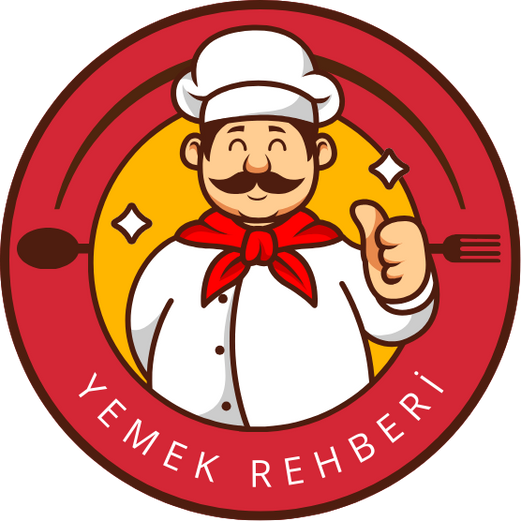
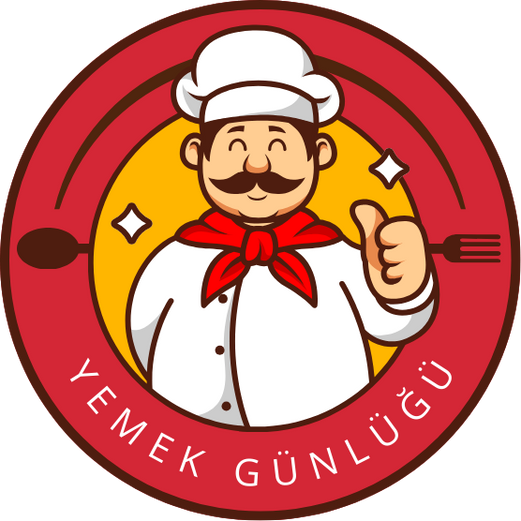
Sayfa Düzenlemeleri

Changed region(s): [[0.1228, 0.6756, 0.7678, 0.952], [0.7985, 0.6756, 0.8906, 0.7678], [0.7678, 0.737, 0.8292, 0.7985]]

diff --git a/src/components/Register/Register.jsx b/src/components/Register/Register.jsx
@@ -64,44 +64,62 @@ const Register = () => {
   }, [registrationSuccess, navigate]);
 
   return (
-    <div className="register-page">
-      <div className="register-container">
-        <h2>Kayıt Ol</h2>
-        <form onSubmit={MailSignUp}>
+    <div className="register-container">
+    <div className="register-form">
+      <h2>Kayıt Ol</h2>
+      <form onSubmit={MailSignUp}>
+        <div className="input-group">
+          <label htmlFor="firstName">Ad</label>
           <input
             type="text"
-            placeholder="Adınız"
+            id="firstName"
+            placeholder="Adınızı girin"
             value={firstName}
             onChange={(e) => setFirstName(e.target.value)}
             required
           />
+        </div>
+        <div className="input-group">
+          <label htmlFor="lastName">Soyad</label>
           <input
             type="text"
-            placeholder="Soyadınız"
+            id="lastName"
+            placeholder="Soyadınızı girin"
             value={lastName}
             onChange={(e) => setLastName(e.target.value)}
             required
           />
+        </div>
+        <div className="input-group">
+          <label htmlFor="email">E-posta Adresi</label>
           <input
             type="email"
-            placeholder="Email"
+            id="email"
+            placeholder="E-posta adresinizi girin"
             value={email}
             onChange={(e) => setEmail(e.target.value)}
             required
           />
+        </div>
+        <div className="input-group">
+          <label htmlFor="password">Şifre</label>
           <input
             type="password"
-            placeholder="Şifre"
+            id="password"
+            placeholder="Şifrenizi girin"
             value={password}
             onChange={(e) => setPassword(e.target.value)}
             required
           />
-          <button type="submit">Kayıt Ol</button>
-        </form>
+        </div>
+        <button type="submit" className="register-button">
+          Kayıt Ol
+        </button>
         {error && <p className="error-message">{error}</p>}
         {successMessage && <p className="success-message">{successMessage}</p>}
-      </div>
+      </form>
     </div>
+  </div>
   );
 };
 

diff --git a/src/components/Register/Register.scss b/src/components/Register/Register.scss
@@ -1,50 +1,80 @@
-.register-page {
+$primary-color: #3498db;
+$background-color: #f2f2f2;
+$form-background: #ffffff;
+$input-border-color: #dddddd;
+$button-background: $primary-color;
+$button-hover-background: darken($primary-color, 10%);
+
+.register-container {
   display: flex;
   justify-content: center;
   align-items: center;
   height: 100vh;
-  // background-color: #f4f4f4;
 }
 
-.register-container {
-  background: #fff;
-  padding: 20px;
+.register-form {
+  background-color: $form-background;
+  padding: 2rem;
   border-radius: 8px;
-  box-shadow: 0 0 10px rgba(0, 0, 0, 0.1);
+  box-shadow: 0 2px 10px rgba(0, 0, 0, 0.1);
   width: 100%;
   max-width: 400px;
-}
 
-.register-container h2 {
-  margin-bottom: 20px;
-}
+  h2 {
+    margin-bottom: 1.5rem;
+    color: $primary-color;
+    text-align: center;
+  }
 
-.register-container input {
-  width: 100%;
-  padding: 10px;
-  margin-bottom: 10px;
-  border: 1px solid #ddd;
-  border-radius: 4px;
-}
+  .input-group {
+    margin-bottom: 1.5rem;
 
-.register-container button {
-  width: 100%;
-  padding: 10px;
-  background-color: #007bff;
-  color: #fff;
-  border: none;
-  border-radius: 4px;
-  cursor: pointer;
-}
+    label {
+      display: block;
+      margin-bottom: 0.5rem;
+      color: #555555;
+    }
 
-.register-container button:hover {
-  background-color: #0056b3;
-}
+    input {
+      width: 100%;
+      padding: 0.75rem;
+      border-radius: 4px;
+      border: 1px solid $input-border-color;
+      font-size: 1rem;
+      transition: border-color 0.3s;
 
-.error-message {
-  color: #d9534f;
-}
+      &:focus {
+        border-color: $primary-color;
+        outline: none;
+      }
+    }
+  }
 
-.success-message {
-  color: #5bc0de;
+  .register-button {
+    width: 100%;
+    padding: 0.75rem;
+    background-color: $button-background;
+    color: #ffffff;
+    border: none;
+    border-radius: 4px;
+    font-size: 1rem;
+    cursor: pointer;
+    transition: background-color 0.3s;
+
+    &:hover {
+      background-color: $button-hover-background;
+    }
+  }
+
+  .error-message {
+    color: #d9534f;
+    text-align: center;
+    margin-bottom: 1rem;
+  }
+
+  .success-message {
+    color: #5bc0de;
+    text-align: center;
+    margin-bottom: 1rem;
+  }
 }

diff --git a/src/dist.css/Register.css b/src/dist.css/Register.css
@@ -1,1 +1,1 @@
-.register-page{display:flex;justify-content:center;align-items:center;height:100vh}.register-container{background:#fff;padding:20px;border-radius:8px;box-shadow:0 0 10px rgba(0,0,0,0.1);width:100%;max-width:400px}.register-container h2{margin-bottom:20px}.register-container input{width:100%;padding:10px;margin-bottom:10px;border:1px solid #ddd;border-radius:4px}.register-container button{width:100%;padding:10px;background-color:#007bff;color:#fff;border:none;border-radius:4px;cursor:pointer}.register-container button:hover{background-color:#0056b3}.error-message{color:#d9534f}.success-message{color:#5bc0de}
+.register-container{display:flex;justify-content:center;align-items:center;height:100vh}.register-form{background-color:#fff;padding:2rem;border-radius:8px;box-shadow:0 2px 10px rgba(0,0,0,0.1);width:100%;max-width:400px}.register-form h2{margin-bottom:1.5rem;color:#3498db;text-align:center}.register-form .input-group{margin-bottom:1.5rem}.register-form .input-group label{display:block;margin-bottom:0.5rem;color:#555555}.register-form .input-group input{width:100%;padding:0.75rem;border-radius:4px;border:1px solid #ddd;font-size:1rem;transition:border-color 0.3s}.register-form .input-group input:focus{border-color:#3498db;outline:none}.register-form .register-button{width:100%;padding:0.75rem;background-color:#3498db;color:#ffffff;border:none;border-radius:4px;font-size:1rem;cursor:pointer;transition:background-color 0.3s}.register-form .register-button:hover{background-color:#217dbb}.register-form .error-message{color:#d9534f;text-align:center;margin-bottom:1rem}.register-form .success-message{color:#5bc0de;text-align:center;margin-bottom:1rem}

diff --git a/src/components/Hompage/Homepage.jsx b/src/components/Hompage/Homepage.jsx
@@ -29,7 +29,7 @@ const Homepage = () => {
                         animate={{opacity: 1, x: 0}}
                         transition={{ duration: 1, delay: 0.6, type: 'spring' }}
                     >
-                        Yemek Rehberi ile yemek tarifi aramak artık çok kolay! İyi bir akşam yemeğinden sonra insan herkesi, hatta kendi akrabalarını bile affedebilir.
+                        Yemek Günlüğü ile yemek tarifi aramak artık çok kolay! İyi bir akşam yemeğinden sonra insan herkesi, hatta kendi akrabalarını bile affedebilir.
                     </motion.p>
 
                     <motion.div
@@ -104,7 +104,7 @@ const Homepage = () => {
                 <div className="about__section">
                     <div className="about__left">
                         <h1>Hakkımızda</h1>
-                        <p>Yemek Rehberi, yemek tarifi aramanıza ve sizin için en iyi yemek tarifini bulmanıza olanak tanıyan bir yemek tarifi web sitesidir. Bir yemek tarifini ara, kategoriye veya malzemeye göre arayabilirsiniz. Ayrıca rastgele bir yemek tarifi de arayabilirsiniz. Burada sizin için en iyi yemek tariflerinden birini bulabilirsiniz.</p>
+                        <p>Yemek Günlüğü, yemek tarifi aramanıza ve sizin için en iyi yemek tarifini bulmanıza olanak tanıyan bir yemek tarifi web sitesidir. Bir yemek tarifini ara, kategoriye veya malzemeye göre arayabilirsiniz. Ayrıca rastgele bir yemek tarifi de arayabilirsiniz. Burada sizin için en iyi yemek tariflerinden birini bulabilirsiniz.</p>
                     </div>
                     <div className="img__container">
                         <img src={About} alt="about"/>

diff --git a/src/components/PrivacyPolicy/PrivacyPolicy.jsx b/src/components/PrivacyPolicy/PrivacyPolicy.jsx
@@ -1,6 +1,7 @@
 import React from 'react';
 import { motion } from 'framer-motion';
 import "../../dist.css/PrivacyPolicy.css";
+import { Link } from "react-router-dom";
 
 const PrivacyPolicy = () => {
   const headingDelays = [0.3, 0.6, 0.9, 1.2, 1.5, 1.8, 2.1];
@@ -103,7 +104,12 @@ const PrivacyPolicy = () => {
         8. İletişim
       </motion.h2>
       <p>
-        Gizlilik politikamızla ilgili herhangi bir sorunuz varsa, bizimle iletişime geçebilirsiniz. İletişim bilgileri için [İletişim sayfamızı](#) ziyaret edebilirsiniz.
+        Gizlilik politikamızla ilgili herhangi bir sorunuz varsa, bizimle iletişime geçebilirsiniz. İletişim bilgileri için   <Link to="/contact"
+        style={{
+          color:"orange"
+        }}>
+                    İletişim
+                  </Link> sayfamızı ziyaret edebilirsiniz.
       </p>
     </motion.div>
   );

diff --git a/src/components/About/About.jsx b/src/components/About/About.jsx
@@ -19,7 +19,7 @@ const About = () => {
         <div className="about__left">
           <h1>Hakkımızda</h1>
           <p>
-            Yemek Rehberi, yemek tarifi aramanıza ve sizin için en iyi yemek
+            Yemek Günlüğü, yemek tarifi aramanıza ve sizin için en iyi yemek
             tarifini bulmanıza olanak tanıyan bir yemek tarifi web sitesidir.
             Bir yemek tarifini ara, kategoriye veya malzemeye göre
             arayabilirsiniz. Ayrıca rastgele bir yemek tarifi de

diff --git a/src/components/Navbar/Navbar.jsx b/src/components/Navbar/Navbar.jsx
@@ -53,7 +53,7 @@ const Navbar = () => {
     <div className="navbar">
       <Link to="/" className="nav__brand">
         <img src={Logo} alt="Logo" />
-        <h2 id="idfood">Yemek</h2><h2 className="logo__last">Rehberi</h2>
+        <h2 id="idfood">Yemek</h2><h2 className="logo__last">Günlüğü</h2>
       </Link>
 
       <ul className={navActive}>

diff --git a/public/index.html b/public/index.html
@@ -13,7 +13,7 @@
 
     <link rel="apple-touch-icon" href="%PUBLIC_URL%/logo192.png" />
     <link rel="manifest" href="%PUBLIC_URL%/manifest.json" />
-    <title>Yemek Rehberi</title>
+    <title>Yemek Günlüğü</title>
   </head>
   <body>
     <noscript>You need to enable JavaScript to run this app.</noscript>

diff --git a/src/components/Login/Login.scss b/src/components/Login/Login.scss
@@ -16,7 +16,6 @@ $button-hover-background: darken($primary-color, 10%);
   max-width: 400px;
   margin: auto;
 
-  
 
   .login-form {
     h2 {
